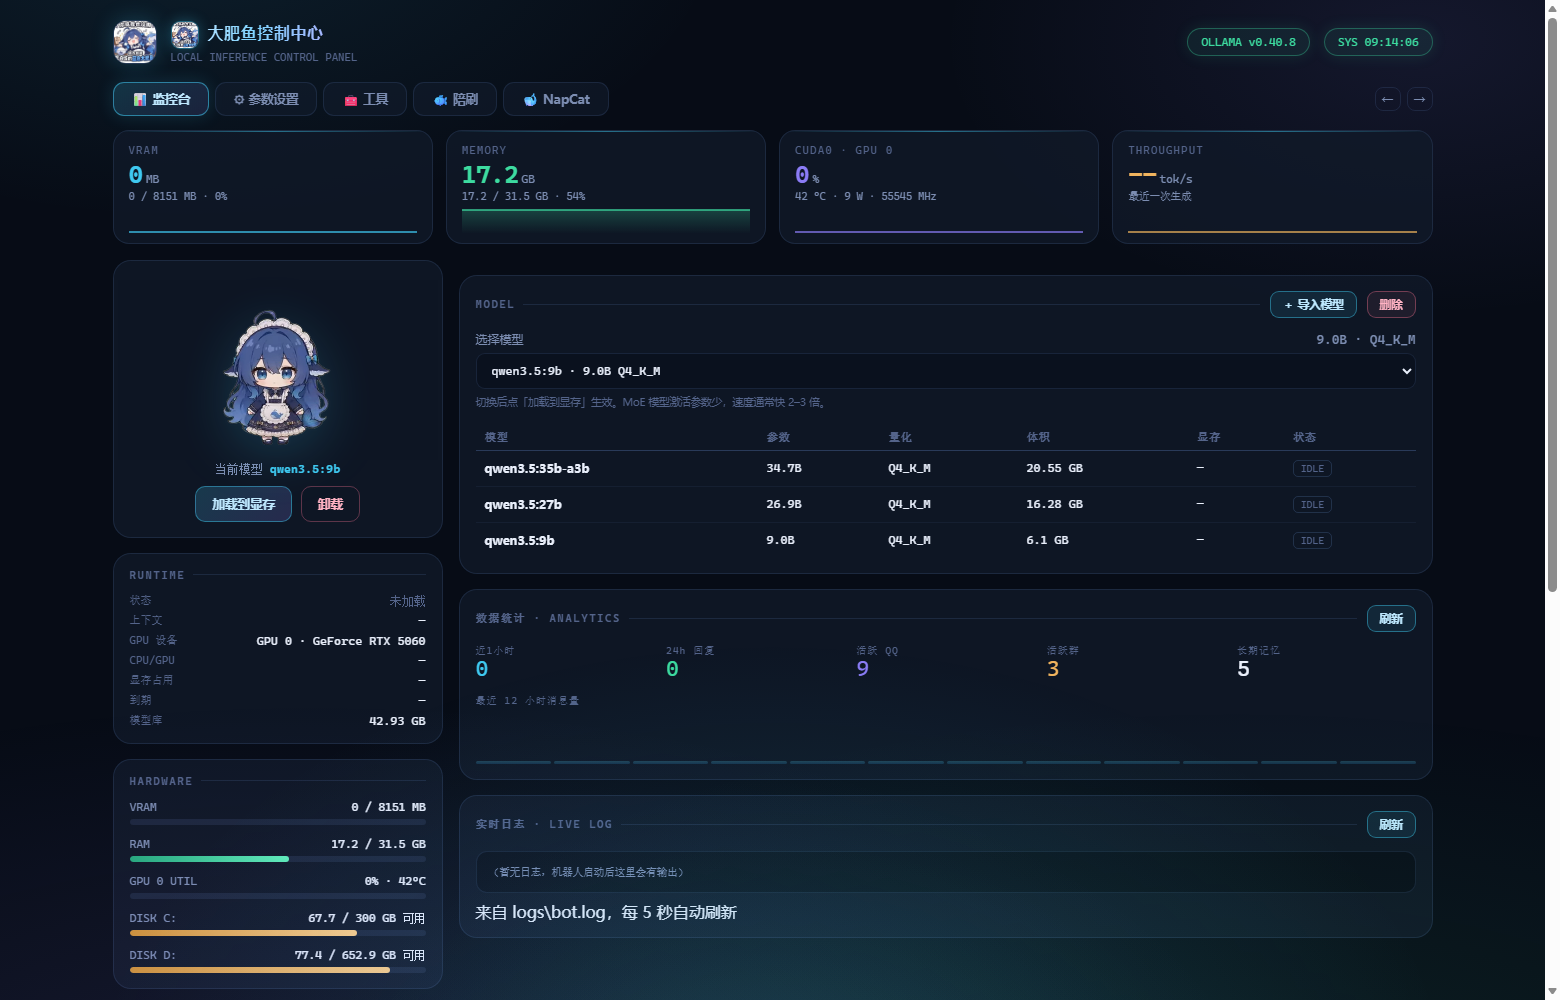
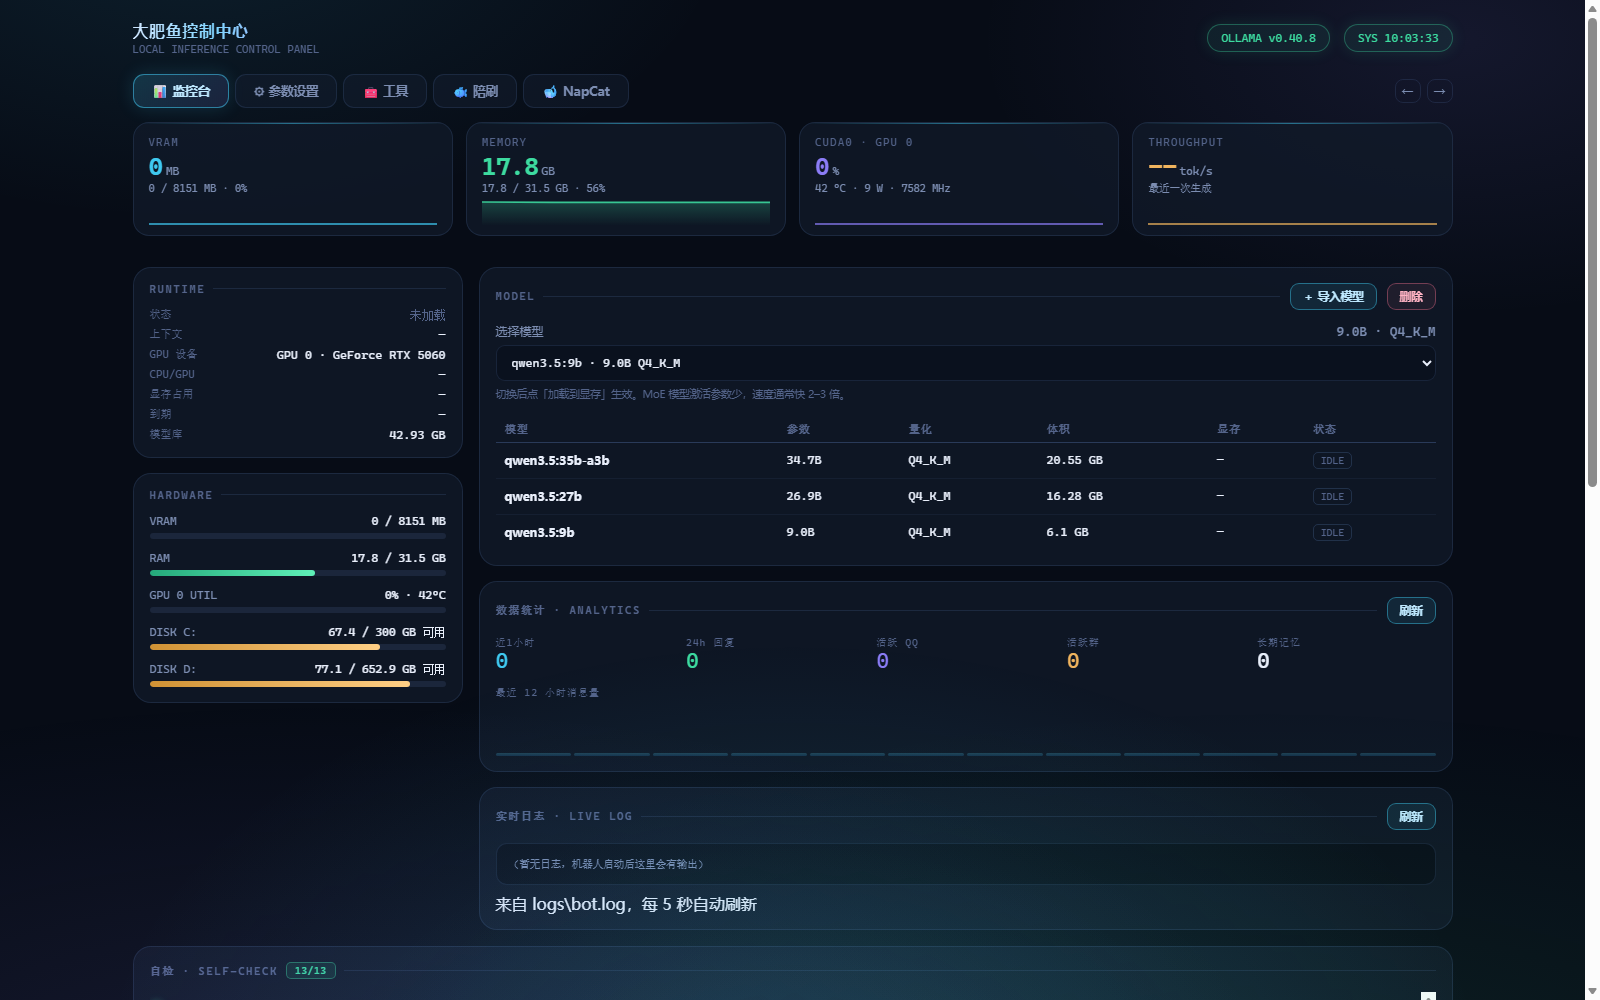
docs: 截图去角色化，声明仓库不含形象素材（避免二次分发）

diff --git a/README.md b/README.md
@@ -169,6 +169,11 @@ logs/             日志
 | [edge-tts](https://github.com/rany2/edge-tts) | 语音备用引擎（可选） | LGPLv3 | ❌ |
 
 > ⚠ NapCatQQ 使用自定义许可证，**禁止再分发**，因此本仓库不包含其任何文件。
+>
+> 本仓库**不包含任何角色形象素材**：界面截图中的角色元素已全部移除，
+> `static/pet/` 下的立绘与动作文件仅存在于作者本地，不会随代码分发。
+> 如果你自行添加，请自行确认对应形象的授权（本项目使用的形象原型为
+> 溟月 / 上善无形，CC BY-NC-SA 4.0，禁止商用）。
 > 若你自行添加角色立绘、动作素材，另有授权要求（形象原型 CC BY-NC-SA 4.0，
 > 动作素材来自 dsh-pet 且不可商用）。**本仓库不含任何图片或音频素材。**
 

diff --git a/ACKNOWLEDGEMENTS.md b/ACKNOWLEDGEMENTS.md
@@ -71,6 +71,14 @@
 
 ## 三、形象与素材（重要）
 
+### 仓库内不包含任何形象素材
+
+- `docs/screenshot.png` 为**去角色版**截图，角色立绘、表情、水印均已移除
+- `static/pet/`、`data/memes/` 下的图片与视频**均未提交**，代码以 `404` 兜底
+- 仓库内没有人声音频、动作素材或立绘文件
+
+
+
 本仓库**不包含任何角色图片、动作素材或音频文件**。如果你自行添加，请注意：
 
 ### 鲸鱼娘形象
